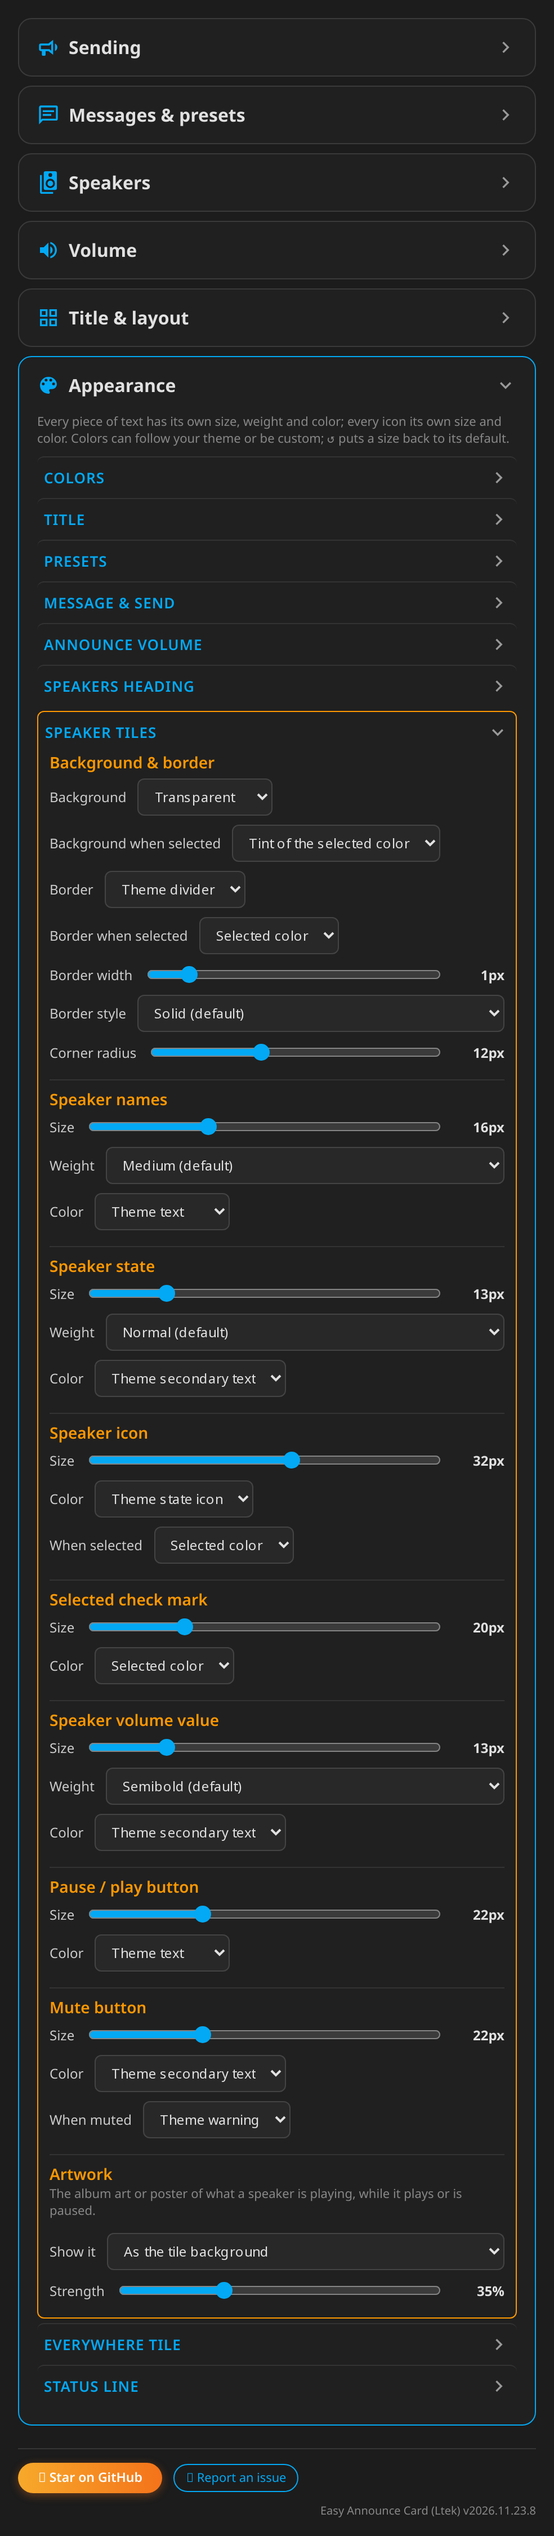
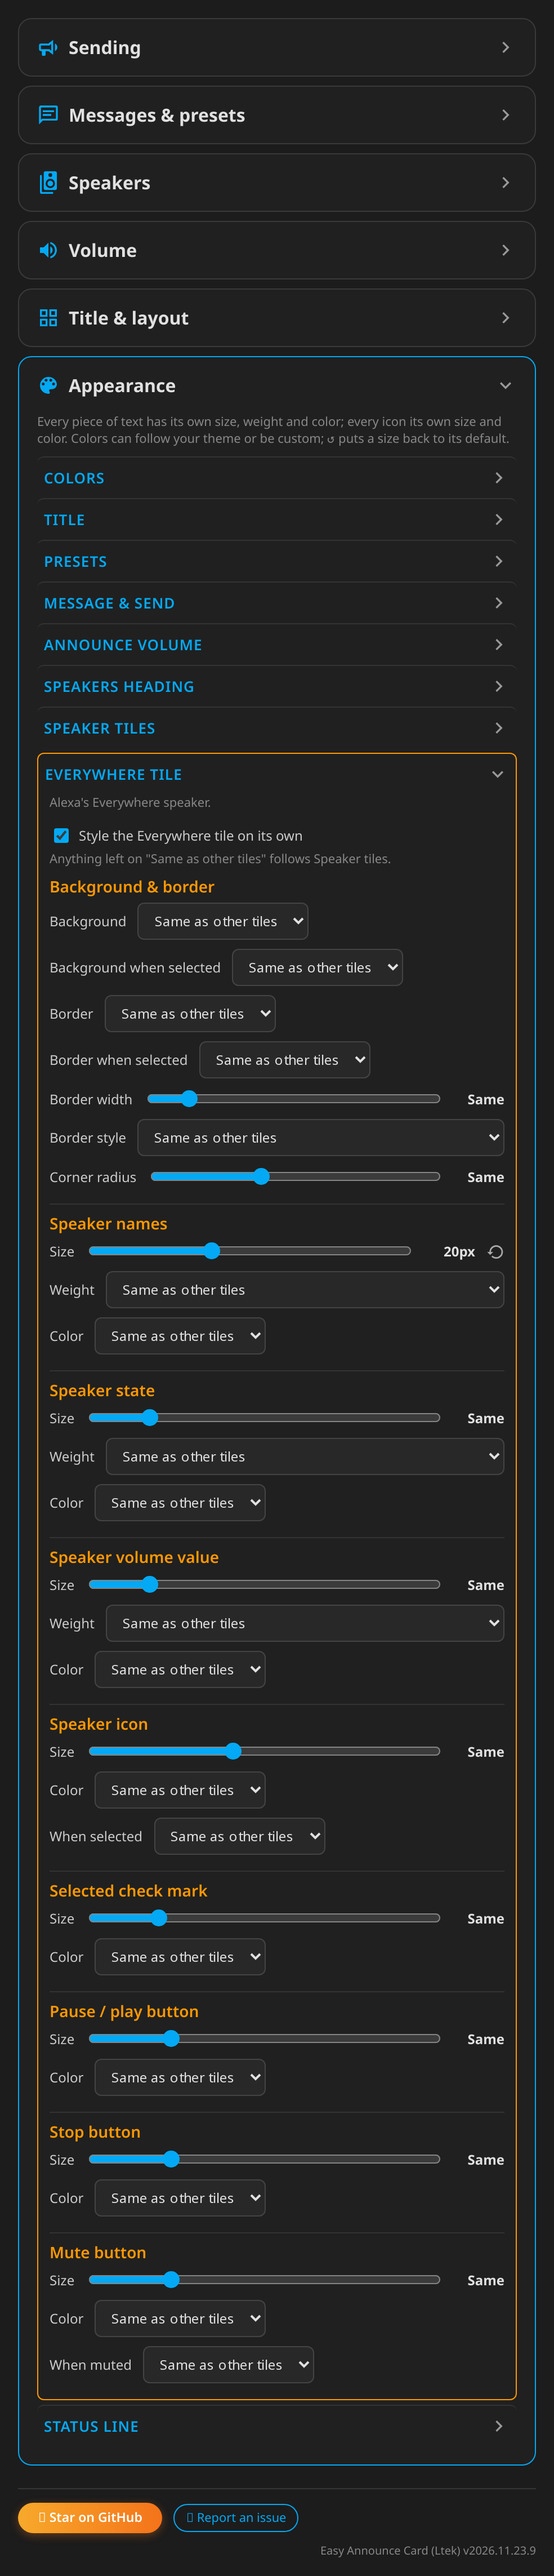
v2026.11.23.10: Stop button beside pause / play

diff --git a/easy-announce-card.js b/easy-announce-card.js
@@ -1,5 +1,5 @@
 // Easy Announce Card (Ltek) — Home Assistant Dashboard card for Alexa announcements
-// Version: v2026.11.23.9
+// Version: v2026.11.23.10
 //
 // Type a message (or tap a preset), pick the speakers, press Send. One call reaches every
 // selected speaker:
@@ -15,7 +15,7 @@
 // API (input_select/list + input_select/update), keeping any "---" / "Select..." placeholder.
 // YAML input_selects are read-only.
 //
-// Volume: each speaker tile can show a volume slider, a mute button and a pause / play button (each
+// Volume: each speaker tile can show a volume slider, a mute button, a pause / play and a stop button (each
 // optional, and only where the speaker supports it). An announcement volume, when switched on,
 // sets every target to that level just before announcing; with restore_volume the card puts each
 // one back to the level it had before, once the announcement should be over (restore_after
@@ -30,7 +30,7 @@
 // interpolated into it); per-card values are custom properties set inline on the card root.
 // The card renders once and patches itself on every state change.
 
-const BUILD_NUMBER = 'v2026.11.23.9';
+const BUILD_NUMBER = 'v2026.11.23.10';
 const VERSION = BUILD_NUMBER.slice(1);
 const CARD_TAG = 'easy-announce-card';
 const EDITOR_TAG = 'easy-announce-card-editor';
@@ -82,6 +82,7 @@ const DEFAULTS = {
   show_volume_value: true,
   show_mute: true,
   show_pause: true,
+  show_stop: true,
   artwork: 'background',
   artwork_opacity: 35,
   show_announce_volume: true,
@@ -122,6 +123,7 @@ const ICON_ITEMS = [
   ['check_icon', 'Selected check mark', 20, 'Selected color', '#03a9f4', 'var(--ean-c-selected)'],
   ['mute_icon', 'Mute button', 22, ...ICO, ['mute_icon_muted_color', 'When muted', 'Theme warning', '#ffa600', 'var(--warning-color, #f4b942)']],
   ['pause_icon', 'Pause / play button', 22, 'Theme text', '#e1e1e1', 'var(--primary-text-color)'],
+  ['stop_icon', 'Stop button', 22, 'Theme text', '#e1e1e1', 'var(--primary-text-color)'],
 ];
 const WEIGHTS = [[300, 'Light'], [400, 'Normal'], [500, 'Medium'], [600, 'Semibold'], [700, 'Bold'], [800, 'Extra bold']];
 for (const [item, , size, weight] of TEXT_ITEMS) { DEFAULTS[`${item}_size`] = size; DEFAULTS[`${item}_weight`] = weight; }
@@ -153,7 +155,7 @@ const BORDER_STYLES = [['solid', 'Solid'], ['dashed', 'Dashed'], ['dotted', 'Dot
 // What a speaker tile is styled with; the Everywhere tile can override every one of them
 // (everywhere_<key>; unset = the same as the other tiles).
 const TILE_TEXT = ['name', 'state', 'vol_value'];
-const TILE_ICONS = ['speaker_icon', 'check_icon', 'mute_icon', 'pause_icon'];
+const TILE_ICONS = ['speaker_icon', 'check_icon', 'mute_icon', 'pause_icon', 'stop_icon'];
 // The power button (v2026.11.17–.23) was replaced by the pause / play button in its spot.
 const REMOVED_KEYS = ['show_power', 'power_icon_size', 'power_icon_color', 'power_icon_on_color'];
 const EW = 'everywhere_';
@@ -329,26 +331,32 @@ function placeEverywhere(list, c) {
 function features(st) { return Number((st && st.attributes && st.attributes.supported_features) || 0); }
 const can = (s, bit) => (s.features & bit) === bit;
 
-/** Which controls a speaker's tile shows: { volume, mute, pause }, by option and by what it supports. */
+/** Which controls a speaker's tile shows: { volume, mute, pause, stop }, by option and by what it supports. */
 function tileControls(c, s) {
-  if (!s.available) return { volume: false, mute: false, pause: false };
+  if (!s.available) return { volume: false, mute: false, pause: false, stop: false };
+  const stop = !!cfg(c, 'show_stop') && can(s, FEAT.STOP);
   return {
     volume: !!cfg(c, 'show_volume') && can(s, FEAT.VOLUME_SET),
     mute: !!cfg(c, 'show_mute') && can(s, FEAT.VOLUME_MUTE),
-    pause: !!cfg(c, 'show_pause') && (can(s, FEAT.PAUSE) || can(s, FEAT.STOP)),
+    // Without a pause of its own, the pause button stops instead, unless the stop button is there.
+    pause: !!cfg(c, 'show_pause') && (can(s, FEAT.PAUSE) || (can(s, FEAT.STOP) && !stop)),
+    stop,
   };
 }
+
+/** The stop button shows while something is playing or paused (there's something to stop). */
+const stopVisible = (st) => !!st && ['playing', 'paused', 'buffering'].includes(st.state);
 
 /**
  * The pause button for a speaker's state: null when there's nothing to pause or resume (it hides),
  * else { icon, title, service }. Playing → pause (stop if it can't pause); paused → play.
  */
-function pauseAction(st) {
+function pauseAction(st, stopFallback = true) {
   if (!st) return null;
   const f = features(st);
   if (st.state === 'playing' || st.state === 'buffering') {
     return (f & FEAT.PAUSE) ? { icon: 'mdi:pause', title: 'Pause', service: 'media_pause' }
-      : (f & FEAT.STOP) ? { icon: 'mdi:stop', title: 'Stop', service: 'media_stop' } : null;
+      : (stopFallback && (f & FEAT.STOP)) ? { icon: 'mdi:stop', title: 'Stop', service: 'media_stop' } : null;
   }
   if (st.state === 'paused') {
     return (f & FEAT.PLAY) ? { icon: 'mdi:play', title: 'Play', service: 'media_play' }
@@ -562,7 +570,7 @@ const CARD_CSS = `
     pointer-events: none; display: none; }
   .tile.has-art .art { display: block; }
   .tile > .tile-top, .tile > .ctl { position: relative; z-index: 1; }
-  .tile > .tile-pause { z-index: 1; }
+  .tile > .tile-corner { z-index: 1; }
   .spk-wrap .thumb { display: none; width: var(--ean-speaker_icon-sz); height: var(--ean-speaker_icon-sz); border-radius: 6px;
     background-size: cover; background-position: center; }
   .tile.has-thumb .spk-wrap .thumb { display: block; }
@@ -578,15 +586,22 @@ const CARD_CSS = `
      the same place and takes the rest of the tile. */
   .tile.compact .tile-top { flex: 0 1 var(--ean-name-w, auto); }
   .tile.compact.tile-row .tile-top { flex: 0 1 auto; }
-  .tile.compact .ctl { flex: 1 1 0; min-width: 150px; }
+  /* The controls never get narrower than they need (mute + a usable slider + the value); in a tight
+     tile the name shortens first, so nothing overlaps. */
+  .tile.compact .ctl { flex: 1 1 0; min-width: auto; }
+  .tile.compact .tile-top { min-width: 72px; }
+  .tile.compact input.vol { min-width: 64px; }
   .tile.compact .txt { padding-right: 0; }
-  /* Pause / play sits in the tile's top right corner (the right edge on compact tiles). */
-  .tile .tile-pause { position: absolute; top: 8px; right: 10px; }
-  .tile.compact .tile-pause { top: 50%; transform: translateY(-50%); }
-  /* Room for it: beside the name only while it shows (stacked); always on compact tiles, so the slider
-     doesn't change length when playback starts. */
+  /* Pause / play and stop sit in the tile's top right corner (the right edge on compact tiles). */
+  .tile .tile-corner { position: absolute; top: 8px; right: 10px; display: flex; align-items: center; gap: 8px; }
+  .tile.compact .tile-corner { top: 50%; transform: translateY(-50%); }
+  /* Room for them only while they show: beside the name (stacked), after the slider (compact). */
   .tile.pausing:not(.compact) .txt { padding-right: calc(var(--ean-pause_icon-sz) + 6px); }
-  .tile.compact.has-pause .ctl { padding-right: calc(var(--ean-pause_icon-sz) + 8px); }
+  .tile.stopping:not(.compact) .txt { padding-right: calc(var(--ean-stop_icon-sz) + 6px); }
+  .tile.pausing.stopping:not(.compact) .txt { padding-right: calc(var(--ean-pause_icon-sz) + var(--ean-stop_icon-sz) + 14px); }
+  .tile.compact.pausing .ctl { padding-right: calc(var(--ean-pause_icon-sz) + 8px); }
+  .tile.compact.stopping .ctl { padding-right: calc(var(--ean-stop_icon-sz) + 8px); }
+  .tile.compact.pausing.stopping .ctl { padding-right: calc(var(--ean-pause_icon-sz) + var(--ean-stop_icon-sz) + 16px); }
   .vol-val { flex: none; min-width: 2.7em; text-align: right; font-variant-numeric: tabular-nums; white-space: nowrap;
     font-size: var(--ean-vol_value-fs); font-weight: var(--ean-vol_value-fw); color: var(--ean-vol_value-c); }
   .ctl { display: flex; align-items: center; gap: 6px; min-width: 0; cursor: default; }
@@ -596,7 +611,9 @@ const CARD_CSS = `
   .ctl-btn[data-mute].muted { color: var(--ean-mute_icon_muted-c); }
   .ctl-btn[data-pause] { color: var(--ean-pause_icon-c); }
   .ctl-btn[data-pause] ha-icon { --mdc-icon-size: var(--ean-pause_icon-sz); width: var(--ean-pause_icon-sz); height: var(--ean-pause_icon-sz); }
-  .ctl-btn[data-pause][hidden] { display: none; }
+  .ctl-btn[data-stop] { color: var(--ean-stop_icon-c); }
+  .ctl-btn[data-stop] ha-icon { --mdc-icon-size: var(--ean-stop_icon-sz); width: var(--ean-stop_icon-sz); height: var(--ean-stop_icon-sz); }
+  .ctl-btn[data-pause][hidden], .ctl-btn[data-stop][hidden] { display: none; }
   input.vol { flex: 1 1 auto; min-width: 0; width: 100%; margin: 0; accent-color: var(--ean-c-selected); cursor: pointer; }
   .avol { display: flex; align-items: center; gap: 8px; font-size: var(--ean-avol-fs); font-weight: var(--ean-avol-fw); color: var(--ean-avol-c); }
   .avol label { display: inline-flex; align-items: center; gap: 6px; cursor: pointer; white-space: nowrap; }
@@ -814,8 +831,9 @@ class EasyAnnounceCard extends HTMLElement {
     const ewVars = everywhereStyleVars(this._config);
     const art = this._c('artwork');
     const compact = this._c('tile_layout') === 'compact';
-    // Pause / play: in the tile's top right corner. data-ctl: it never selects the tile.
-    const pauseBtn = (id) => `<button class="ctl-btn tile-pause" data-ctl data-pause="${id}" title="Pause" hidden><ha-icon icon="mdi:pause"></ha-icon></button>`;
+    // Pause / play and stop: in the tile's top right corner. data-ctl: they never select the tile.
+    const pauseBtn = (id) => `<button class="ctl-btn tile-pause" data-pause="${id}" title="Pause" hidden><ha-icon icon="mdi:pause"></ha-icon></button>`;
+    const stopBtn = (id) => `<button class="ctl-btn tile-stop" data-stop="${id}" title="Stop" hidden><ha-icon icon="mdi:stop"></ha-icon></button>`;
     return this._speakers.map((s) => {
       const k = tileControls(this._config, s);
       const id = esc(s.id);
@@ -823,8 +841,8 @@ class EasyAnnounceCard extends HTMLElement {
           ${k.mute ? `<button class="ctl-btn" data-mute="${id}" title="Mute"><ha-icon icon="mdi:volume-high"></ha-icon></button>` : ''}
           ${k.volume ? `<input type="range" class="vol" data-vol="${id}" min="0" max="100" step="1" aria-label="Volume">` : ''}
           ${k.volume && this._c('show_volume_value') ? `<span class="vol-val" data-vol-val></span>` : ''}</div>` : '';
-      const corner = k.pause ? pauseBtn(id) : '';
-      return `<div class="tile${s.everywhere === 'row' ? ' tile-row' : ''}${compact ? ' compact' : ''}${k.pause ? ' has-pause' : ''}" role="button" tabindex="${s.available ? 0 : -1}" data-spk="${id}" title="${id}"${s.everywhere && ewVars ? ` style="${esc(ewVars)}" data-everywhere` : ''}>
+      const corner = k.pause || k.stop ? `<span class="tile-corner" data-ctl>${k.pause ? pauseBtn(id) : ''}${k.stop ? stopBtn(id) : ''}</span>` : '';
+      return `<div class="tile${s.everywhere === 'row' ? ' tile-row' : ''}${compact ? ' compact' : ''}${k.pause ? ' has-pause' : ''}${k.stop ? ' has-stop' : ''}" role="button" tabindex="${s.available ? 0 : -1}" data-spk="${id}" title="${id}"${s.everywhere && ewVars ? ` style="${esc(ewVars)}" data-everywhere` : ''}>
         ${art === 'background' ? '<span class="art" data-art></span>' : ''}
         <div class="tile-top"><span class="spk-wrap"><ha-icon class="spk-icon" icon="mdi:speaker"></ha-icon>${art === 'thumbnail' ? '<span class="thumb" data-thumb></span>' : ''}<span class="check"><ha-icon icon="mdi:check-circle"></ha-icon></span></span>
         <span class="txt"><span class="name">${esc(s.name)}</span>${showState ? '<span class="state" data-state></span>' : ''}</span></div>
@@ -883,7 +901,7 @@ class EasyAnnounceCard extends HTMLElement {
     try { if (document.fonts && document.fonts.ready) document.fonts.ready.then(run); } catch (e) { /* no font loading API */ }
   }
 
-  /** Tap / Enter on a tile, and its volume, mute and pause controls (which never select the tile). */
+  /** Tap / Enter on a tile, and its volume, mute, pause and stop controls (which never select the tile). */
   _wireTiles(scope) {
     scope.querySelectorAll('[data-spk]').forEach((el) => {
       el.addEventListener('click', (e) => { if (!e.target.closest('[data-ctl]')) this._tapSpeaker(el.dataset.spk); });
@@ -910,8 +928,14 @@ class EasyAnnounceCard extends HTMLElement {
       this._hass.callService('media_player', 'volume_mute', { entity_id: b.dataset.mute, is_volume_muted: !muted })
         .catch((e) => this._setStatus('err', `Mute failed: ${errText(e)}`));
     }));
+    scope.querySelectorAll('[data-stop]').forEach((b) => b.addEventListener('click', () => {
+      if (!stopVisible(this._hass.states[b.dataset.stop])) return;
+      this._hass.callService('media_player', 'media_stop', { entity_id: b.dataset.stop })
+        .catch((e) => this._setStatus('err', `Stop failed: ${errText(e)}`));
+    }));
     scope.querySelectorAll('[data-pause]').forEach((b) => b.addEventListener('click', () => {
-      const act = pauseAction(this._hass.states[b.dataset.pause]);
+      const tile = b.closest('.tile');
+      const act = pauseAction(this._hass.states[b.dataset.pause], !(tile && tile.querySelector('[data-stop]')));
       if (!act) return;
       this._hass.callService('media_player', act.service, { entity_id: b.dataset.pause })
         .catch((e) => this._setStatus('err', `${act.title} failed: ${errText(e)}`));
@@ -1062,9 +1086,11 @@ class EasyAnnounceCard extends HTMLElement {
         if (mute.querySelector('ha-icon').getAttribute('icon') !== ic) mute.querySelector('ha-icon').setAttribute('icon', ic);
         mute.title = m ? 'Unmute' : 'Mute';
       }
+      const sb = el.querySelector('[data-stop]');
+      if (sb) { const vis = stopVisible(st); sb.hidden = !vis; el.classList.toggle('stopping', vis); }
       const pb = el.querySelector('[data-pause]');
       if (pb) {
-        const act = pauseAction(st);
+        const act = pauseAction(st, !sb);
         pb.hidden = !act;
         el.classList.toggle('pausing', !!act);
         if (act) {
@@ -1393,7 +1419,7 @@ const EDITOR_CSS = `
 
 // Settings that show or hide other settings: changing one re-renders the editor.
 const REVEAL_KEYS = new Set(['show_volume', 'show_volume_value', 'orientation', 'auto_fit', 'everywhere_style', 'tile_layout', 'send_with', 'presets_entity', 'show_message_box', 'speaker_source', 'hide_unavailable', 'tap_action', 'preset_style',
-  'show_announce_volume', 'restore_volume', 'show_state', 'show_select_all', 'show_mute', 'show_pause', 'artwork', 'allow_edit_presets']);
+  'show_announce_volume', 'restore_volume', 'show_state', 'show_select_all', 'show_mute', 'show_pause', 'show_stop', 'artwork', 'allow_edit_presets']);
 // Slider readouts that aren't px.
 const SLIDER_FMT = {
   columns_landscape: (n) => (Number(n) ? String(n) : 'Auto'),
@@ -1605,7 +1631,9 @@ class EasyAnnounceCardEditor extends HTMLElement {
       ${this._check('show_volume', 'Volume slider')}
       ${this._c('show_volume') ? this._check('show_volume_value', 'Volume value', '(35% beside the slider)') : ''}
       ${this._check('show_mute', 'Mute button')}
-      ${this._check('show_pause', 'Pause / play button', '(top right corner, while it plays or is paused)')}
+      ${this._check('show_pause', 'Pause / play button', '(pause now, resume later)')}
+      ${this._check('show_stop', 'Stop button', '(ends playback, e.g. at bedtime)')}
+      ${this._c('show_pause') || this._c('show_stop') ? '<p class="eane-hint">They sit in the tile\'s top right corner while a speaker is playing or paused.</p>' : ''}
       <div class="eane-group">Announcement volume</div>
       ${this._check('show_announce_volume', 'Show "Announce Volume" by the message', '(a switch and a slider)')}
       ${this._c('show_announce_volume') ? `<p class="eane-hint">When it's on, every selected speaker is set to that volume just before the announcement.
@@ -1698,6 +1726,7 @@ class EasyAnnounceCardEditor extends HTMLElement {
         this._iconStyle('speaker_icon'), this._iconStyle('check_icon'),
         ...(this._c('show_volume') && this._c('show_volume_value') ? [this._textStyle('vol_value')] : []),
         ...(this._c('show_pause') ? [this._iconStyle('pause_icon')] : []),
+        ...(this._c('show_stop') ? [this._iconStyle('stop_icon')] : []),
         ...(this._c('show_mute') ? [this._iconStyle('mute_icon')] : []),
         `<div class="eane-group">Artwork</div>
         <p class="eane-hint">The album art or poster of what a speaker is playing, while it plays or is paused.</p>
@@ -1713,6 +1742,7 @@ class EasyAnnounceCardEditor extends HTMLElement {
           ...(this._c('show_volume') && this._c('show_volume_value') ? [this._ovTextStyle('vol_value')] : []),
           this._ovIconStyle('speaker_icon'), this._ovIconStyle('check_icon'),
           ...(this._c('show_pause') ? [this._ovIconStyle('pause_icon')] : []),
+          ...(this._c('show_stop') ? [this._ovIconStyle('stop_icon')] : []),
           ...(this._c('show_mute') ? [this._ovIconStyle('mute_icon')] : [])]
           : ['<p class="eane-hint">Off: it looks like the other tiles.</p>'])]],
       ['look-status', 'Status line', [this._textStyle('status', true)]],
@@ -1821,7 +1851,7 @@ EasyAnnounceCard._test = {
   BUILD_NUMBER, VERSION, CARD_CSS, EDITOR_CSS, DEFAULTS, COLOR_DEFS, VIEWS,
   normalizeConfig, discoverSpeakers, cleanName, globRe, excluded, readPresets, planOptions, isPlaceholder,
   buildCall, setupProblem, rootStyleVars, colorMode, speakerState, viewKey,
-  pauseAction, artworkUrl, cssUrl, TEXT_ITEMS, ICON_ITEMS, FRAME_COLORS, EW_KEYS, everywhereStyleVars, tileFitWidth, usesNameFit, isThisDevice, effectiveOrientation, gridColumns, tileControls, restoreDelayMs, restoreLevels, scheduleRestore, RESTORES, FEAT,
+  pauseAction, stopVisible, artworkUrl, cssUrl, TEXT_ITEMS, ICON_ITEMS, FRAME_COLORS, EW_KEYS, everywhereStyleVars, tileFitWidth, usesNameFit, isThisDevice, effectiveOrientation, gridColumns, tileControls, restoreDelayMs, restoreLevels, scheduleRestore, RESTORES, FEAT,
 };
 
 if (!customElements.get(CARD_TAG)) customElements.define(CARD_TAG, EasyAnnounceCard);

diff --git a/README.md b/README.md
@@ -17,7 +17,7 @@ speakers, press **Send**. One call reaches every speaker you picked. History is 
   `media_player.*_group`), or always add some.
 - **Pick several speakers**, or tap the All / None chips, and send once. Or set the card to announce as soon as you tap a speaker.
 - Each speaker shows what it's doing (Idle, Paused, Playing · song), with its own **volume slider** and value,
-  **mute** and **pause / play** buttons. Each one can be shown or hidden.
+  **mute**, **pause / play** and **stop** buttons. Each one can be shown or hidden.
 - **Pause button** on each speaker while it plays (tap again to resume), and the **album art or poster** of what
   it's playing as the tile background, or in place of the speaker icon.
 - **Announce Volume:** every selected speaker is set to it just before the announcement, and can be
@@ -160,7 +160,8 @@ Every option is in the visual editor.
 | `show_volume` | `true` | Volume slider on each speaker. |
 | `show_volume_value` | `true` | The speaker's volume (35%) beside its slider. |
 | `show_mute` | `true` | Mute button on each speaker. |
-| `show_pause` | `true` | Pause / play button in the tile's top right corner (the right edge on compact tiles): pause while a speaker plays, play while it's paused. Stop on speakers that can't pause. |
+| `show_pause` | `true` | Pause / play button in the tile's top right corner (the right edge on compact tiles): pause while a speaker plays, play while it's paused, so you can resume later. |
+| `show_stop` | `true` | Stop button beside it, while a speaker plays or is paused: ends playback (`media_player.media_stop`), e.g. at bedtime. With it off, a speaker that can't pause gets Stop on the pause button. |
 | `show_announce_volume` | `true` | The "Announce Volume" switch and slider by the message. |
 | `announce_volume` | `0` | The level "Announce Volume" starts at, in %. `0` = starts switched off. |
 | `restore_volume` | `true` | Put each speaker back to its volume from before the announcement. |
@@ -171,7 +172,7 @@ Every option is in the visual editor.
 | `tile_border_color`, `tile_selected_border_color` | theme divider, the selected color | Tile border, normal and selected. |
 | `tile_border_width`, `tile_border_style`, `tile_border_radius` | `1`, `solid`, `12` | Border width (px), style (`solid`, `dashed`, `dotted`, `double`, `none`) and corner radius (px). |
 | `everywhere_style` | `false` | Style the Everywhere tile on its own. |
-| `everywhere_<key>` | same as other tiles | With `everywhere_style`, any tile setting for the Everywhere tile only: the background and border keys above, `name_*`, `state_*`, `vol_value_*`, `speaker_icon_*`, `check_icon_*`, `mute_icon_*` and `pause_icon_*`. For example `everywhere_tile_background`, `everywhere_name_size`. |
+| `everywhere_<key>` | same as other tiles | With `everywhere_style`, any tile setting for the Everywhere tile only: the background and border keys above, `name_*`, `state_*`, `vol_value_*`, `speaker_icon_*`, `check_icon_*`, `mute_icon_*`, `pause_icon_*` and `stop_icon_*`. For example `everywhere_tile_background`, `everywhere_name_size`. |
 | `<text>_size`, `<text>_weight`, `<text>_color` | see below | Each piece of text, on its own. |
 | `<icon>_size`, `<icon>_color` | see below | Each icon, on its own. |
 
@@ -187,6 +188,7 @@ Colors take a theme variable (`var(--accent-color)`), a hex color or any CSS col
 | `avol_value` (volume readout) | 14, 600 | | `check_icon` (selected mark) | 20 | |
 | `section` ("Speakers" heading) | 13, 600 | | `mute_icon` | 22 | `mute_icon_muted_color` (muted) |
 | `count` (selected count) | 13, 500 | | `pause_icon` (pause / play) | 22 | |
+| | | | `stop_icon` | 22 | |
 | `links` (All / None chips) | 14, 600 | | | | |
 | `name` (speaker names) | 16, 500 | | | | |
 | `state` (speaker state) | 13, 400 | | | | |
@@ -206,7 +208,7 @@ the helper to it keep working.
 
 ### Volume
 
-Volume, mute and pause only show on speakers that support them. **Announce Volume** sets every selected speaker
+Volume, mute, pause and stop only show on speakers that support them. **Announce Volume** sets every selected speaker
 to that volume just before announcing; each browser remembers the last level. With `restore_volume`, the
 card puts each speaker back afterwards. Keep the page open until then: the card sends that change itself,
 so closing the page skips it. If you announce again before then, the speakers go back to the volume they

diff --git a/CHANGELOG.md b/CHANGELOG.md
@@ -1,5 +1,14 @@
 # Changelog
 
+## v2026.11.23.10
+
+- **Stop button** (`show_stop`, on by default) next to pause / play in the tile's corner, while a speaker plays
+  or is paused. It calls `media_player.media_stop`, which ends playback for good (bedtime, leaving the house);
+  pause is for a short break you'll resume. Pause and stop each show or hide on their own (Volume panel), and
+  each has its own style in Appearance.
+- Compact tiles make room for pause and stop only while they show, and the controls no longer overlap the
+  volume value in a narrow tile: the name shortens first.
+
 ## v2026.11.23.9
 
 - **Pause / play replaces the power button**, in the same spot: the tile's top right corner (the right edge
